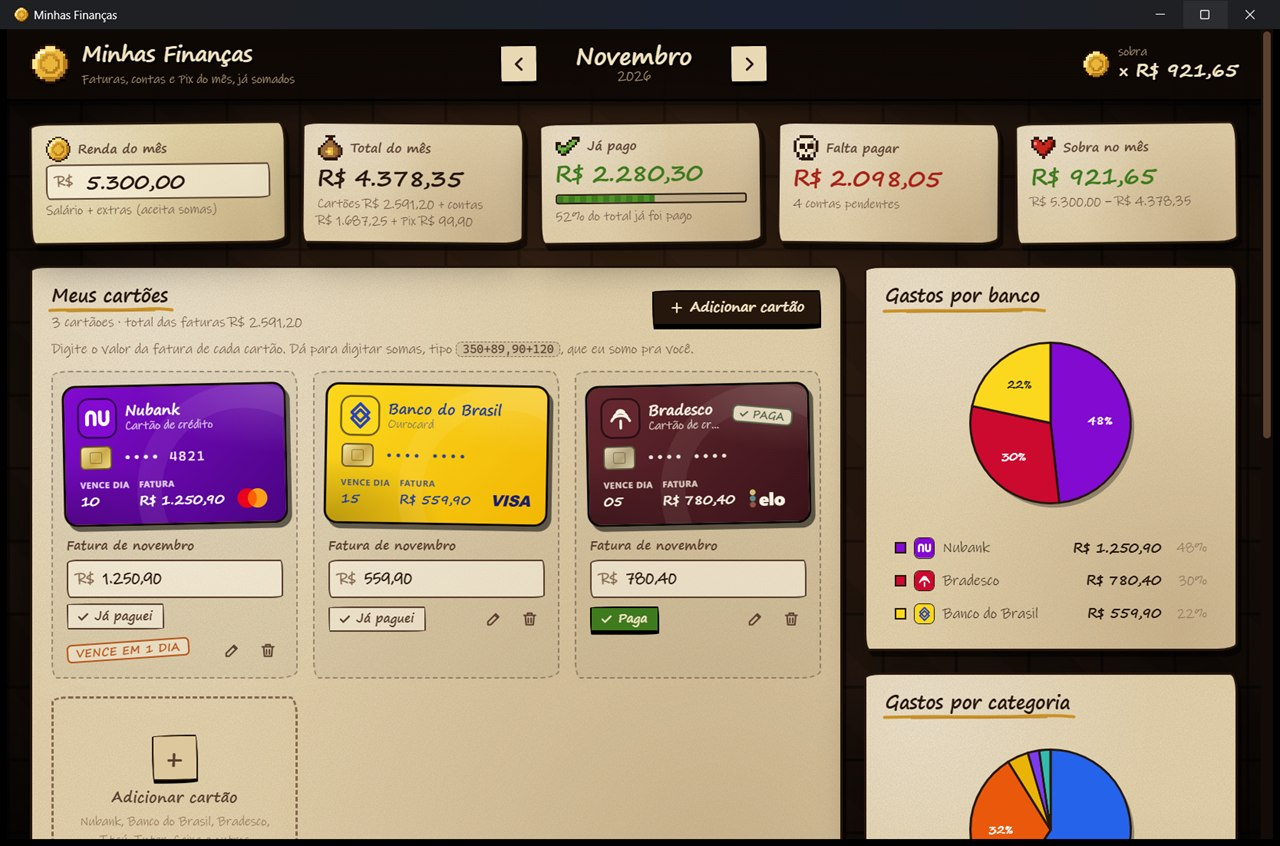
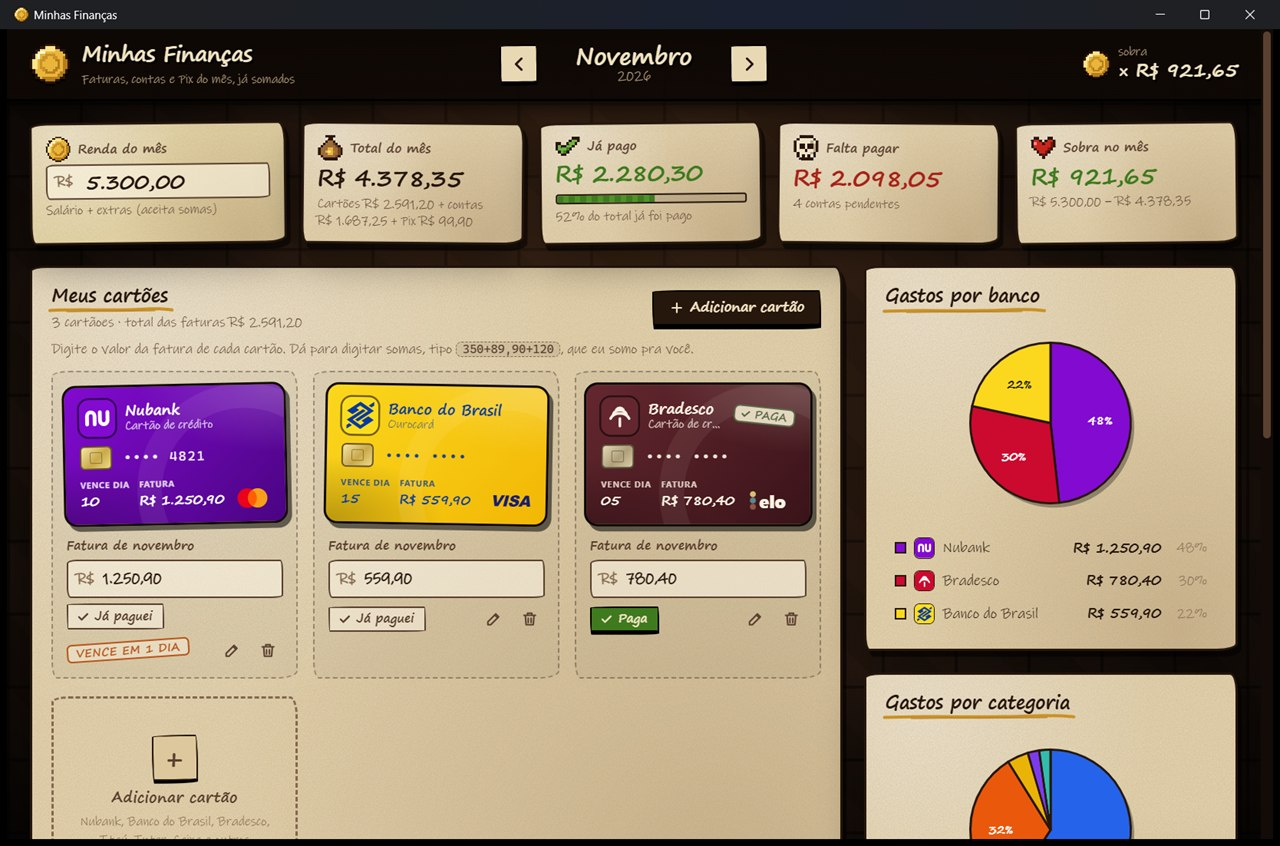
Redesenha o emblema do Banco do Brasil
Novo SVG a partir da marca do banco: duas peças iguais giradas 180 graus com faixas na inclinação 2:3 e os dois cantinhos. Ajusta a cor do texto do cartão e atualiza a captura do README.

Changed region(s): [[0.4375, 0.4303, 0.6562, 0.6454], [0.25, 0.461, 0.3125, 0.5225], [0.7188, 0.7069, 0.75, 0.7376]]

diff --git a/ui/bancos.js b/ui/bancos.js
@@ -20,10 +20,13 @@ const BANCOS = [
         stroke-width="5" stroke-linecap="round" stroke-linejoin="round"/>`,
   },
   {
-    id: 'bb', nome: 'Banco do Brasil', cor: '#FBD71E', cor2: '#F2B705', texto: '#1E3A9E',
-    desenho: `<rect width="48" height="48" rx="12" fill="#FBD71E"/>
-      <path d="M24 8.5 35.5 20 24 31.5 12.5 20Z M24 16.5 35.5 28 24 39.5 12.5 28Z" fill="none"
-        stroke="#2A44B8" stroke-width="3.6" stroke-linejoin="round"/>`,
+    // Símbolo: duas peças iguais giradas 180°, com faixas na inclinação 2:3,
+    // mais os dois cantinhos. Redesenhado a partir da marca do banco.
+    id: 'bb', nome: 'Banco do Brasil', cor: '#FBD71E', cor2: '#F2B705', texto: '#0A3AA0',
+    desenho: `<rect width="48" height="48" rx="12" fill="#FCDD1E"/>
+      <path fill="#0A3AA0" d="M23.98 6L41.75 17.95L20.57 32.1L17.16 29.74L34.05 18.04L23.56 11.08L18.69 14.38L22.41 16.89L13.5 22.76L6.27 17.95Z
+        M23.98 41.84L6.22 29.9L27.4 15.75L30.81 18.1L13.92 29.8L24.41 36.77L29.28 33.46L25.56 30.95L34.47 25.08L41.7 29.9Z
+        M34.88 10.87L42 6.09L42 10.97L38.38 13.33Z M13.09 36.97L5.97 41.75L5.97 36.88L9.58 34.52Z"/>`,
   },
   {
     id: 'bradesco', nome: 'Bradesco', cor: '#CC092F', cor2: '#7A0019', texto: '#FFFFFF',

diff --git a/README.md b/README.md
@@ -90,8 +90,8 @@ docs/                        imagens do README
 Sobre o visual: o tema é **inspirado** no clima de jogos roguelike de porão (pedra escura,
 papel rabiscado, pixel art). Toda a arte é original, feita para este projeto; não usa
 imagens, fontes ou personagens de nenhum jogo. As letras usam as fontes *Ink Free* e
-*Segoe Print*, que já vêm no Windows. Os emblemas dos bancos são desenhos simplificados
-inspirados nas cores de cada banco, não os logotipos oficiais.
+*Segoe Print*, que já vêm no Windows. Os emblemas dos bancos são desenhos em SVG feitos
+só para identificar cada cartão no programa; as marcas pertencem aos respectivos bancos.
 
 ## Compilar
 
